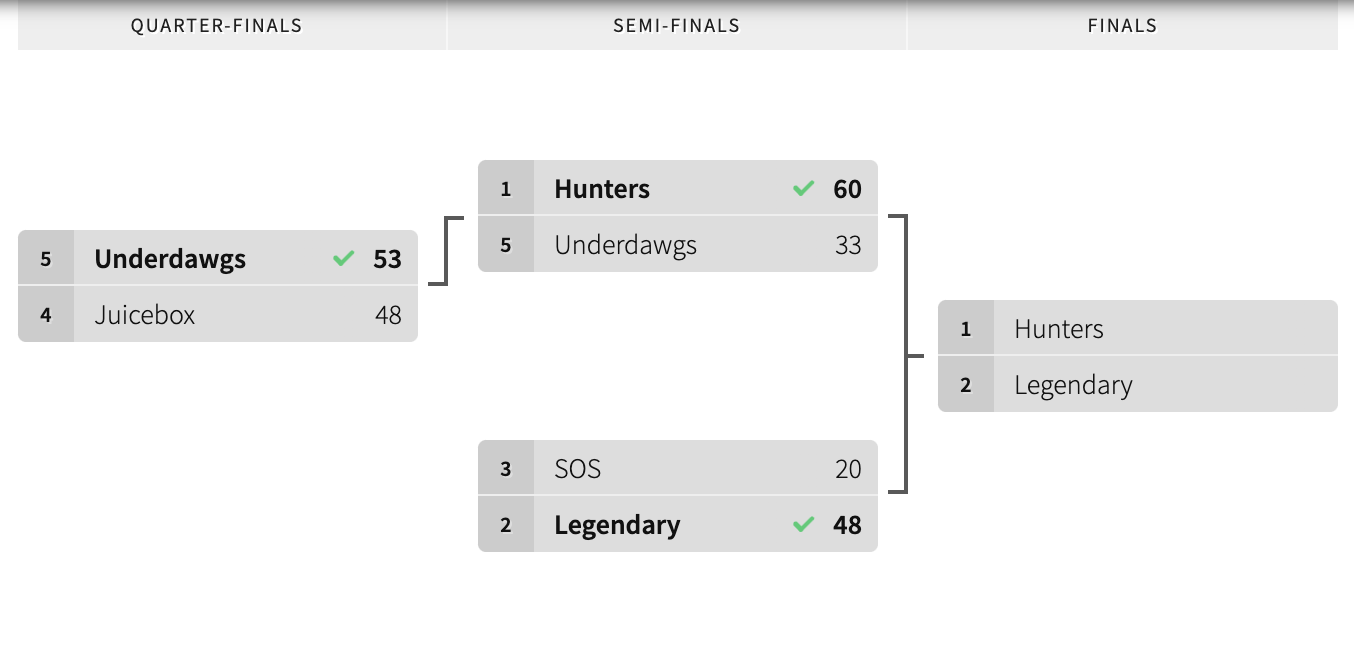
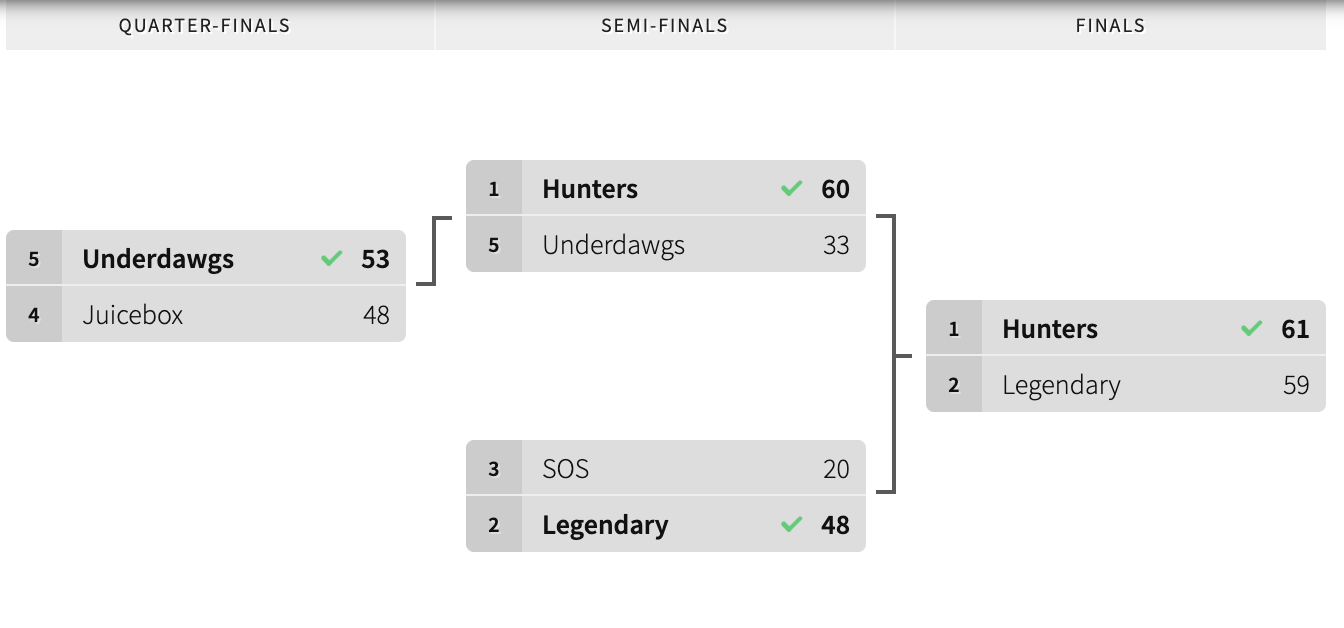
end 2024 season

diff --git a/2024/awards.md b/2024/awards.md
@@ -9,19 +9,167 @@ datatable: true
 ---
 <h2> {{page.year}} Season Awards </h2>
 <br>
-<p> Every year, individual awards for the regular season are given to players. The following are the awards, what the qualifications are to win the awards, and how the award winner is selected. Seasons awards are given out on the week of finals, right before the championship game. </p>
-<br>
 <h4> Most Valuable Player </h4>
-<p>The Most Valuable Player (MVP) award is given to the best performing overall player during the regular season. After the regular season, captains will nominate players for this award. The 4-5 most nominated players will then be selected as the MVP candidates. Everyone who participates in the tournament, as well as all the volunteers and staff, will then be able to vote on who they think is the MVP from the candidates. </p>
+<table class="display2">
+  <colgroup>
+      <col class="twenty"/>
+      <col class="twenty"/>
+  </colgroup>
+  <thead style="text-align: center;">
+    <tr>
+        <th>Player</th>
+        <th>Votes</th>
+    </tr>
+  </thead>
+  <tbody style="text-align: center;">
+  	<tr>
+  		<td><b>Jason Lee</b></td>
+  		<td><b>57.7% (12 Votes)</b></td>
+  	</tr>
+  	<tr>
+  		<td>Isaac Sohn</td>
+  		<td>28.6% (6 Votes)</td>
+  	</tr>
+  	<tr>
+  		<td>Daniel Lee</td>
+  		<td>9.5% (2 Votes)</td>
+  	</tr>
+  	<tr>
+  		<td>Ryan Won</td>
+  		<td>4.8% (1 Vote)</td>
+  	</tr>
+  </tbody>
+</table>
 <br>
+
 <h4> Defensive Player of the Year </h4>
-<p>The Defensive Player of the Year (DPOY) award is given to the best performing defensive player during the regular season. After the regular season, captains will nominate players for this award. The 4-5 most nominated players will then be selected as the DPOY candidates. Everyone who participates in the tournament, as well as all the volunteers and staff, will then be able to vote on who they think is the DPOY from the candidates. </p>
+<table class="display2">
+  <colgroup>
+      <col class="twenty"/>
+      <col class="twenty"/>
+  </colgroup>
+  <thead style="text-align: center;">
+    <tr>
+        <th>Player</th>
+        <th>Votes</th>
+    </tr>
+  </thead>
+  <tbody style="text-align: center;">
+  	<tr>
+  		<td><b>Ryan Lee</b></td>
+  		<td><b>38.1% (8 Votes)</b></td>
+  	</tr>
+  	<tr>
+  		<td>Joseph Jung</td>
+  		<td>28.6% (6 Votes)</td>
+  	</tr>
+  	<tr>
+  		<td>Isaac Sohn</td>
+  		<td>19.0% (4 Votes)</td>
+  	</tr>
+  	<tr>
+  		<td>Ryan Won</td>
+  		<td>14.3% (3 Votes)</td>
+  	</tr>
+  </tbody>
+</table>
+
 <br>
 <h4> Most Improved Player </h4>
-<p> The Most Improved Player (MIP) award is given to the player who had improved the most compared to the past tournament (or the last tournament that they did play in). As such, this award can only be given to players who also played in previous basketball tournaments (does not have to be just the previous year's tournament). After the regular season, captains will nominate players for this award. The 4-5 most nominated players will then be selected as the MIP candidates. Everyone who participates in the tournament, as well as all the volunteers and staff, will then be able to vote on who they think is the MIP from the candidates. </p>
+<table class="display2">
+  <colgroup>
+      <col class="twenty"/>
+      <col class="twenty"/>
+  </colgroup>
+  <thead style="text-align: center;">
+    <tr>
+        <th>Player</th>
+        <th>Votes</th>
+    </tr>
+  </thead>
+  <tbody style="text-align: center;">
+  	<tr>
+  		<td><b>David Moon</b></td>
+  		<td><b>47.6% (10 Votes)</b></td>
+  	</tr>
+  	<tr>
+  		<td>Urim Lee</td>
+  		<td>19.0% (4 Votes)</td>
+  	</tr>
+  	<tr>
+  		<td>Joon Kim</td>
+  		<td>19.0% (4 Votes)</td>
+  	</tr>
+  	<tr>
+  		<td>Jeremy Park</td>
+  		<td>14.3% (3 Votes)</td>
+  	</tr>
+  </tbody>
+</table>
+
 <br>
 <h4> Rookie of the Year </h4>
-<p> The Rookie of the Year (ROY) award is given to the best performing player who is in 9th grade or below. Once someone wins the ROY award in a previous tournament, they are no longer eligible for the award in future tournaments. After the regular season, captains will nominate players for this award. The 4-5 most nominated players will then be selected as the ROY candidates. Everyone who participates in the tournament, as well as all the volunteers and staff, will then be able to vote on who they think is the ROY from the candidates. </p>
+<table class="display2">
+  <colgroup>
+      <col class="twenty"/>
+      <col class="twenty"/>
+  </colgroup>
+  <thead style="text-align: center;">
+    <tr>
+        <th>Player</th>
+        <th>Votes</th>
+    </tr>
+  </thead>
+  <tbody style="text-align: center;">
+  	<tr>
+  		<td><b>Justin Hong</b></td>
+  		<td><b>71.4% (15 Votes)</b></td>
+  	</tr>
+  	<tr>
+  		<td>Jacob Moon</td>
+  		<td>23.8% (5 Votes)</td>
+  	</tr>
+  	<tr>
+  		<td>John Hwang</td>
+  		<td>4.8% (1 Vote)</td>
+  	</tr>
+  	<tr>
+  		<td>Junhee Kim</td>
+  		<td>0.0% (0 Votes)</td>
+  	</tr>
+  </tbody>
+</table>
+
+
 <br>
-<h4>Sportmanship Award</h4>
-<p> The Sportsmanship Award is given to the player the shows the best sportmanship throughout the course of the regular season. Winning this award also gives a Starbucks giftcard. After the regular season, captains will nominate players for this award. The 4-5 most nominated players will then be selected as the Sportsmanship candidates. Everyone who participates in the tournament, as well as all the volunteers and staff, will then be able to vote on who they think is the Sportmanship winner from the candidates. </p>
+<h4> Sportsmanship Award </h4>
+<table class="display2">
+  <colgroup>
+      <col class="twenty"/>
+      <col class="twenty"/>
+  </colgroup>
+  <thead style="text-align: center;">
+    <tr>
+        <th>Player</th>
+        <th>Votes</th>
+    </tr>
+  </thead>
+  <tbody style="text-align: center;">
+  	<tr>
+  		<td><b>Brandon Oh</b></td>
+  		<td><b>38.1% (8 Votes)</b></td>
+  	</tr>
+  	<tr>
+  		<td>Andrew Kim</td>
+  		<td>23.8% (5 Votes)</td>
+  	</tr>
+  	<tr>
+  		<td>Sahn Yoon</td>
+  		<td>19.0% (4 Votes)</td>
+  	</tr>
+  	<tr>
+  		<td>David Moon</td>
+  		<td>19.0% (4 Votes)</td>
+  	</tr>
+  </tbody>
+</table>

diff --git a/2024/home.md b/2024/home.md
@@ -10,6 +10,55 @@ datatable: true
 ---
 <h2> {{page.year}} - 14th Jesuwon Basketball Tournament </h2>
 
-<h3> Ongoing Tournament </h3>
 
-<p> Welcome to the 2024 Jesuwon Basketball Tournament, the 14th edition of the annual competition! Use this site to keep up to date with the schedule, standings, and stats as we go through the tournament. </p>
+<h3> Champions: Hunters </h3>
+{% for team_hash in site.data.seasons.twentyfour.teams %}
+{% assign team = team_hash[1] %}
+{% if team.team_id == 2 %}
+<p><b>Regular Season Record</b>: {{team.wins}} - {{team.losses}}</p>
+<p><b>Captain</b>: {{team.captain}}</p>
+<p><b>Players</b>: 
+{% for player in team.players %}
+<a href="/players/{{player.player_id}}">{{player.name}},</a>
+{% endfor %}
+{% endif %}
+{% endfor %}
+<br>
+
+<img src="/resources/2024/champs.jpg" alt="Champions">
+
+<h3> Season Award Winners </h3>
+<table class="display2">
+  <colgroup>
+      <col class="twenty"/>
+      <col class="twenty"/>
+  </colgroup>
+  <thead style="text-align: center;">
+    <tr>
+        <th>Award</th>
+        <th>Winner</th>
+    </tr>
+  </thead>
+  <tbody style="text-align: center;">
+    <tr>
+      <td>Most Valuable Player</td>
+      <td>Jason Lee</td>
+    </tr>
+    <tr>
+        <td>Defensive Player of the Year</td>
+        <td>Ryan Lee</td>
+    </tr>
+    <tr>
+      <td>Most Improved Player</td>
+      <td>David Moon</td>
+    </tr>
+    <tr>
+      <td>Rookie of the Year</td>
+      <td>Justin Hong</td>
+    </tr>
+    <tr>
+      <td>Sportmanship Award</td>
+      <td>Brandon Oh</td>
+    </tr>
+  </tbody>
+</table>

diff --git a/2024/games/game14.md b/2024/games/game14.md
@@ -1,5 +1,5 @@
 ---
-gamenum: game11
+gamenum: game14
 archetype: tournament
 year: 2024
 type: schedule
@@ -15,7 +15,7 @@ datatable: true
 <h4 style="text-align: center;"> {{game.type}}: {{game.long_date}} at {{game.time}} </h4>
 <br>
 <h1 style="text-align: center;"> {{home.name}} vs {{away.name}}</h1>
-<h3 style="text-align: center;"> {{home.tag}} {{game.home_score}} - {{game.away_score}} {{away.tag}} (OT)</h3>
+<h3 style="text-align: center;"> {{home.tag}} {{game.home_score}} - {{game.away_score}} {{away.tag}} (2OT)</h3>
 {% if game.stage == "reg" %}
 <h2> {{home.name}} ({{home.wins}}-{{home.losses}})</h2>
 {% else %}

diff --git a/2024/playoffs.md b/2024/playoffs.md
@@ -8,7 +8,7 @@ layout: default
 datatable: true
 ---
 <h2> {{page.year}} Playoff Bracket </h2>
-<br>
+<h4> Champions: Hunters</h4>
 
 <img src="/resources/{{page.year}}/bracket.png" alt="Championship Bracket">
 

diff --git a/2023/home.md b/2023/home.md
@@ -24,6 +24,8 @@ datatable: true
 {% endfor %}
 <br>
 
+<img src="/resources/2023/champs.jpg" alt="Champions">
+
 <h3> Season Award Winners </h3>
 <table class="display2">
   <colgroup>
